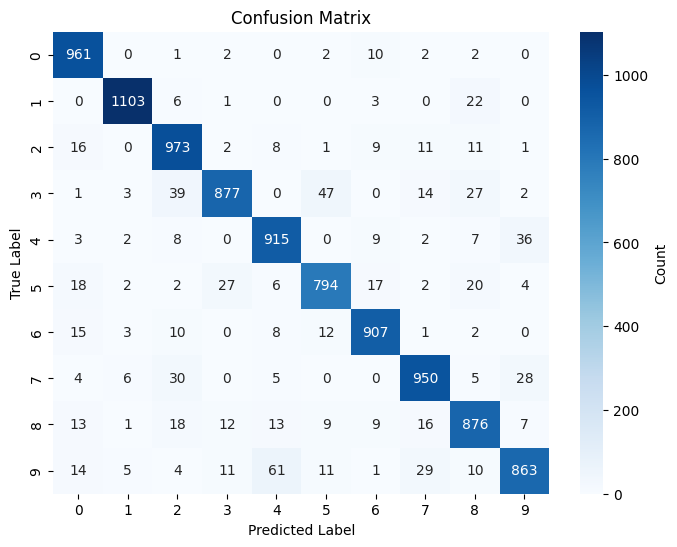
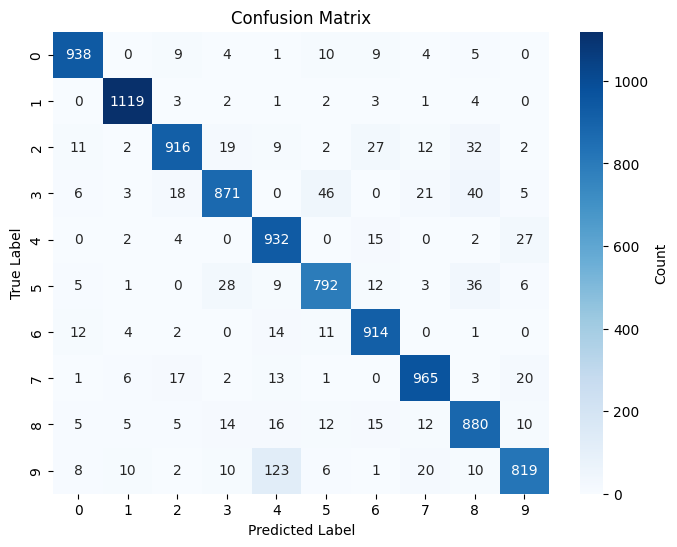
idk

diff --git a/_proc/_docs/mnist.html b/_proc/_docs/mnist.html
@@ -104,14 +104,14 @@ pre > code.sourceCode > span > a:first-child::before { text-decoration: underlin
 
 <link rel="stylesheet" href="styles.css">
 <meta property="og:title" content="Machine-learning-demo">
-<meta property="og:image" content="https://lakebradford.github.io/Machine-learning-demo/mnist_files/figure-html/cell-9-output-2.png">
+<meta property="og:image" content="https://lakebradford.github.io/Machine-learning-demo/mnist_files/figure-html/cell-4-output-2.png">
 <meta property="og:site_name" content="Machine-learning-demo">
-<meta property="og:image:height" content="547">
-<meta property="og:image:width" content="677">
+<meta property="og:image:height" content="413">
+<meta property="og:image:width" content="416">
 <meta name="twitter:title" content="Machine-learning-demo">
-<meta name="twitter:image" content="https://lakebradford.github.io/Machine-learning-demo/mnist_files/figure-html/cell-9-output-2.png">
-<meta name="twitter:image-height" content="547">
-<meta name="twitter:image-width" content="677">
+<meta name="twitter:image" content="https://lakebradford.github.io/Machine-learning-demo/mnist_files/figure-html/cell-4-output-2.png">
+<meta name="twitter:image-height" content="413">
+<meta name="twitter:image-width" content="416">
 <meta name="twitter:card" content="summary_large_image">
 </head>
 
@@ -197,7 +197,7 @@ pre > code.sourceCode > span > a:first-child::before { text-decoration: underlin
 11490434/11490434 ━━━━━━━━━━━━━━━━━━━━ 1s 0us/step</code></pre>
 </div>
 </div>
-<div id="cell-3" class="cell" data-execution_count="3">
+<div id="cell-3" class="cell" data-execution_count="8">
 <div class="sourceCode cell-code" id="cb4"><pre class="sourceCode python code-with-copy"><code class="sourceCode python"><span id="cb4-1"><a href="#cb4-1" aria-hidden="true" tabindex="-1"></a><span class="kw">def</span> plotImage(index,x_train,x_test,y_train):</span>
 <span id="cb4-2"><a href="#cb4-2" aria-hidden="true" tabindex="-1"></a>    <span class="co"># Normalize the values so they are a decimal between 0 and 1</span></span>
 <span id="cb4-3"><a href="#cb4-3" aria-hidden="true" tabindex="-1"></a>    x_train <span class="op">=</span> x_train<span class="op">/</span><span class="dv">255</span></span>
@@ -207,79 +207,91 @@ pre > code.sourceCode > span > a:first-child::before { text-decoration: underlin
 <span id="cb4-7"><a href="#cb4-7" aria-hidden="true" tabindex="-1"></a>    plt.show()</span>
 <span id="cb4-8"><a href="#cb4-8" aria-hidden="true" tabindex="-1"></a></span>
 <span id="cb4-9"><a href="#cb4-9" aria-hidden="true" tabindex="-1"></a></span>
-<span id="cb4-10"><a href="#cb4-10" aria-hidden="true" tabindex="-1"></a><span class="co">#TODO: change the index to see other values in the dataset</span></span></code><button title="Copy to Clipboard" class="code-copy-button"><i class="bi"></i></button></pre></div>
+<span id="cb4-10"><a href="#cb4-10" aria-hidden="true" tabindex="-1"></a><span class="co">#TODO: change the index to see other values in the dataset</span></span>
+<span id="cb4-11"><a href="#cb4-11" aria-hidden="true" tabindex="-1"></a>plotImage(<span class="dv">11</span>, x_train, x_test, y_train)</span></code><button title="Copy to Clipboard" class="code-copy-button"><i class="bi"></i></button></pre></div>
+<div class="cell-output cell-output-stdout">
+<pre><code>The plot represents the number 5</code></pre>
 </div>
-<div id="cell-4" class="cell">
-<div class="sourceCode cell-code" id="cb5"><pre class="sourceCode python code-with-copy"><code class="sourceCode python"><span id="cb5-1"><a href="#cb5-1" aria-hidden="true" tabindex="-1"></a><span class="co"># </span><span class="al">TODO</span><span class="co">: Add reshape the data in this code block</span></span>
-<span id="cb5-2"><a href="#cb5-2" aria-hidden="true" tabindex="-1"></a>x_train_flat <span class="op">=</span> x_train.reshape(NumberOfRows, NumberOfColumns)</span>
-<span id="cb5-3"><a href="#cb5-3" aria-hidden="true" tabindex="-1"></a><span class="co"># x_train_flat = </span></span>
-<span id="cb5-4"><a href="#cb5-4" aria-hidden="true" tabindex="-1"></a><span class="co"># x_test_flat =</span></span></code><button title="Copy to Clipboard" class="code-copy-button"><i class="bi"></i></button></pre></div>
+<div class="cell-output cell-output-display">
+<div>
+<figure class="figure">
+<p><img src="mnist_files/figure-html/cell-4-output-2.png" class="img-fluid figure-img"></p>
+</figure>
 </div>
-<div id="cell-5" class="cell">
-<div class="sourceCode cell-code" id="cb6"><pre class="sourceCode python code-with-copy"><code class="sourceCode python"><span id="cb6-1"><a href="#cb6-1" aria-hidden="true" tabindex="-1"></a><span class="co"># Model creation</span></span>
-<span id="cb6-2"><a href="#cb6-2" aria-hidden="true" tabindex="-1"></a>model <span class="op">=</span> keras.Sequential([</span>
-<span id="cb6-3"><a href="#cb6-3" aria-hidden="true" tabindex="-1"></a>    keras.layers.Dense(<span class="dv">128</span>, input_shape <span class="op">=</span> (<span class="dv">784</span>,),activation<span class="op">=</span><span class="st">'relu'</span>), </span>
-<span id="cb6-4"><a href="#cb6-4" aria-hidden="true" tabindex="-1"></a>    keras.layers.Dense(<span class="dv">64</span>, activation<span class="op">=</span><span class="st">'sigmoid'</span>), </span>
-<span id="cb6-5"><a href="#cb6-5" aria-hidden="true" tabindex="-1"></a>    keras.layers.Dense(<span class="dv">32</span>, activation<span class="op">=</span><span class="st">'sigmoid'</span>), </span>
-<span id="cb6-6"><a href="#cb6-6" aria-hidden="true" tabindex="-1"></a>    keras.layers.Dense(<span class="dv">10</span>, activation<span class="op">=</span><span class="st">'sigmoid'</span>)</span>
-<span id="cb6-7"><a href="#cb6-7" aria-hidden="true" tabindex="-1"></a>])</span>
-<span id="cb6-8"><a href="#cb6-8" aria-hidden="true" tabindex="-1"></a>model.<span class="bu">compile</span> (</span>
-<span id="cb6-9"><a href="#cb6-9" aria-hidden="true" tabindex="-1"></a>    optimizer<span class="op">=</span><span class="st">'adam'</span>,</span>
-<span id="cb6-10"><a href="#cb6-10" aria-hidden="true" tabindex="-1"></a>    loss <span class="op">=</span> <span class="st">'sparse_categorical_crossentropy'</span>,</span>
-<span id="cb6-11"><a href="#cb6-11" aria-hidden="true" tabindex="-1"></a>    metrics <span class="op">=</span> [<span class="st">'accuracy'</span>]</span>
-<span id="cb6-12"><a href="#cb6-12" aria-hidden="true" tabindex="-1"></a>)</span></code><button title="Copy to Clipboard" class="code-copy-button"><i class="bi"></i></button></pre></div>
+</div>
+</div>
+<div id="cell-4" class="cell" data-execution_count="9">
+<div class="sourceCode cell-code" id="cb6"><pre class="sourceCode python code-with-copy"><code class="sourceCode python"><span id="cb6-1"><a href="#cb6-1" aria-hidden="true" tabindex="-1"></a><span class="co"># </span><span class="al">TODO</span><span class="co">: Add reshape the data in this code block</span></span>
+<span id="cb6-2"><a href="#cb6-2" aria-hidden="true" tabindex="-1"></a>x_train_flat <span class="op">=</span> x_train.reshape(<span class="bu">len</span>(x_train), <span class="dv">784</span>)</span>
+<span id="cb6-3"><a href="#cb6-3" aria-hidden="true" tabindex="-1"></a>x_test_flat <span class="op">=</span> x_test.reshape(<span class="bu">len</span>(x_test), <span class="dv">784</span>)</span></code><button title="Copy to Clipboard" class="code-copy-button"><i class="bi"></i></button></pre></div>
+</div>
+<div id="cell-5" class="cell" data-execution_count="10">
+<div class="sourceCode cell-code" id="cb7"><pre class="sourceCode python code-with-copy"><code class="sourceCode python"><span id="cb7-1"><a href="#cb7-1" aria-hidden="true" tabindex="-1"></a><span class="co"># Model creation</span></span>
+<span id="cb7-2"><a href="#cb7-2" aria-hidden="true" tabindex="-1"></a>model <span class="op">=</span> keras.Sequential([</span>
+<span id="cb7-3"><a href="#cb7-3" aria-hidden="true" tabindex="-1"></a>    keras.layers.Dense(<span class="dv">128</span>, input_shape <span class="op">=</span> (<span class="dv">784</span>,),activation<span class="op">=</span><span class="st">'relu'</span>), </span>
+<span id="cb7-4"><a href="#cb7-4" aria-hidden="true" tabindex="-1"></a>    keras.layers.Dense(<span class="dv">64</span>, activation<span class="op">=</span><span class="st">'sigmoid'</span>), </span>
+<span id="cb7-5"><a href="#cb7-5" aria-hidden="true" tabindex="-1"></a>    keras.layers.Dense(<span class="dv">32</span>, activation<span class="op">=</span><span class="st">'sigmoid'</span>), </span>
+<span id="cb7-6"><a href="#cb7-6" aria-hidden="true" tabindex="-1"></a>    keras.layers.Dense(<span class="dv">10</span>, activation<span class="op">=</span><span class="st">'sigmoid'</span>)</span>
+<span id="cb7-7"><a href="#cb7-7" aria-hidden="true" tabindex="-1"></a>])</span>
+<span id="cb7-8"><a href="#cb7-8" aria-hidden="true" tabindex="-1"></a>model.<span class="bu">compile</span> (</span>
+<span id="cb7-9"><a href="#cb7-9" aria-hidden="true" tabindex="-1"></a>    optimizer<span class="op">=</span><span class="st">'adam'</span>,</span>
+<span id="cb7-10"><a href="#cb7-10" aria-hidden="true" tabindex="-1"></a>    loss <span class="op">=</span> <span class="st">'sparse_categorical_crossentropy'</span>,</span>
+<span id="cb7-11"><a href="#cb7-11" aria-hidden="true" tabindex="-1"></a>    metrics <span class="op">=</span> [<span class="st">'accuracy'</span>]</span>
+<span id="cb7-12"><a href="#cb7-12" aria-hidden="true" tabindex="-1"></a>)</span></code><button title="Copy to Clipboard" class="code-copy-button"><i class="bi"></i></button></pre></div>
 <div class="cell-output cell-output-stderr">
-<pre><code>/Users/lakebradford/Desktop/Machine-learning-demo/.venv/lib/python3.12/site-packages/keras/src/layers/core/dense.py:87: UserWarning: Do not pass an `input_shape`/`input_dim` argument to a layer. When using Sequential models, prefer using an `Input(shape)` object as the first layer in the model instead.
+<pre><code>c:\Users\rzhe2\WM\CSCI_435\Machine-learning-demo\myenv\lib\site-packages\keras\src\layers\core\dense.py:87: UserWarning: Do not pass an `input_shape`/`input_dim` argument to a layer. When using Sequential models, prefer using an `Input(shape)` object as the first layer in the model instead.
   super().__init__(activity_regularizer=activity_regularizer, **kwargs)</code></pre>
 </div>
 </div>
-<div id="cell-6" class="cell">
-<div class="sourceCode cell-code" id="cb8"><pre class="sourceCode python code-with-copy"><code class="sourceCode python"><span id="cb8-1"><a href="#cb8-1" aria-hidden="true" tabindex="-1"></a><span class="co"># </span><span class="al">TODO</span><span class="co">: Train the model using model.fit here</span></span></code><button title="Copy to Clipboard" class="code-copy-button"><i class="bi"></i></button></pre></div>
+<div id="cell-6" class="cell" data-execution_count="11">
+<div class="sourceCode cell-code" id="cb9"><pre class="sourceCode python code-with-copy"><code class="sourceCode python"><span id="cb9-1"><a href="#cb9-1" aria-hidden="true" tabindex="-1"></a><span class="co"># </span><span class="al">TODO</span><span class="co">: Train the model using model.fit here </span></span>
+<span id="cb9-2"><a href="#cb9-2" aria-hidden="true" tabindex="-1"></a>model.fit(x_train_flat, y_train, epochs<span class="op">=</span><span class="dv">5</span>)</span></code><button title="Copy to Clipboard" class="code-copy-button"><i class="bi"></i></button></pre></div>
 <div class="cell-output cell-output-stdout">
 <pre><code>Epoch 1/5
-1875/1875 ━━━━━━━━━━━━━━━━━━━━ 2s 1ms/step - accuracy: 0.7168 - loss: 1.1381
+1875/1875 ━━━━━━━━━━━━━━━━━━━━ 6s 2ms/step - accuracy: 0.6756 - loss: 1.1928
 Epoch 2/5
-1875/1875 ━━━━━━━━━━━━━━━━━━━━ 2s 937us/step - accuracy: 0.9095 - loss: 0.3223
+1875/1875 ━━━━━━━━━━━━━━━━━━━━ 4s 2ms/step - accuracy: 0.8936 - loss: 0.3626
 Epoch 3/5
-1875/1875 ━━━━━━━━━━━━━━━━━━━━ 2s 978us/step - accuracy: 0.9140 - loss: 0.2888
+1875/1875 ━━━━━━━━━━━━━━━━━━━━ 4s 2ms/step - accuracy: 0.9099 - loss: 0.3075
 Epoch 4/5
-1875/1875 ━━━━━━━━━━━━━━━━━━━━ 2s 970us/step - accuracy: 0.9202 - loss: 0.2684
+1875/1875 ━━━━━━━━━━━━━━━━━━━━ 4s 2ms/step - accuracy: 0.9137 - loss: 0.2859
 Epoch 5/5
-1875/1875 ━━━━━━━━━━━━━━━━━━━━ 2s 1ms/step - accuracy: 0.9198 - loss: 0.2697</code></pre>
+1875/1875 ━━━━━━━━━━━━━━━━━━━━ 6s 3ms/step - accuracy: 0.9152 - loss: 0.2878</code></pre>
 </div>
-<div class="cell-output cell-output-display">
-<pre><code>&lt;keras.src.callbacks.history.History&gt;</code></pre>
+<div class="cell-output cell-output-display" data-execution_count="11">
+<pre><code>&lt;keras.src.callbacks.history.History at 0x1c67e305c90&gt;</code></pre>
 </div>
 </div>
-<div id="cell-7" class="cell">
-<div class="sourceCode cell-code" id="cb11"><pre class="sourceCode python code-with-copy"><code class="sourceCode python"><span id="cb11-1"><a href="#cb11-1" aria-hidden="true" tabindex="-1"></a><span class="co"># </span><span class="al">TODO</span><span class="co">: Test the model against the test data using model.evaluate</span></span></code><button title="Copy to Clipboard" class="code-copy-button"><i class="bi"></i></button></pre></div>
+<div id="cell-7" class="cell" data-execution_count="16">
+<div class="sourceCode cell-code" id="cb12"><pre class="sourceCode python code-with-copy"><code class="sourceCode python"><span id="cb12-1"><a href="#cb12-1" aria-hidden="true" tabindex="-1"></a><span class="co"># </span><span class="al">TODO</span><span class="co">: Test the model against the test data using model.evaluate</span></span>
+<span id="cb12-2"><a href="#cb12-2" aria-hidden="true" tabindex="-1"></a>model.evaluate(x_test_flat, y_test)</span></code><button title="Copy to Clipboard" class="code-copy-button"><i class="bi"></i></button></pre></div>
 <div class="cell-output cell-output-stdout">
-<pre><code>313/313 ━━━━━━━━━━━━━━━━━━━━ 0s 416us/step - accuracy: 0.9094 - loss: 0.3053</code></pre>
+<pre><code>313/313 ━━━━━━━━━━━━━━━━━━━━ 0s 893us/step - accuracy: 0.9021 - loss: 0.3215</code></pre>
 </div>
-<div class="cell-output cell-output-display">
-<pre><code>[0.26149341464042664, 0.9218999743461609]</code></pre>
+<div class="cell-output cell-output-display" data-execution_count="16">
+<pre><code>[0.28421449661254883, 0.9146000146865845]</code></pre>
 </div>
 </div>
-<div id="cell-8" class="cell">
-<div class="sourceCode cell-code" id="cb14"><pre class="sourceCode python code-with-copy"><code class="sourceCode python"><span id="cb14-1"><a href="#cb14-1" aria-hidden="true" tabindex="-1"></a><span class="co"># </span><span class="al">TODO</span><span class="co">: Run the confusion matrix</span></span>
-<span id="cb14-2"><a href="#cb14-2" aria-hidden="true" tabindex="-1"></a><span class="kw">def</span> plot_confusion_matrix(model, x_test_flat, y_test):</span>
-<span id="cb14-3"><a href="#cb14-3" aria-hidden="true" tabindex="-1"></a>    <span class="co"># Make predictions</span></span>
-<span id="cb14-4"><a href="#cb14-4" aria-hidden="true" tabindex="-1"></a>    y_pred <span class="op">=</span> model.predict(x_test_flat)</span>
-<span id="cb14-5"><a href="#cb14-5" aria-hidden="true" tabindex="-1"></a>    y_pred_labels <span class="op">=</span> [np.argmax(i) <span class="cf">for</span> i <span class="kw">in</span> y_pred]</span>
-<span id="cb14-6"><a href="#cb14-6" aria-hidden="true" tabindex="-1"></a>    <span class="co"># Create confusion matrix</span></span>
-<span id="cb14-7"><a href="#cb14-7" aria-hidden="true" tabindex="-1"></a>    confusion_matrix <span class="op">=</span> tf.math.confusion_matrix(labels<span class="op">=</span>y_test, predictions<span class="op">=</span>y_pred_labels)</span>
-<span id="cb14-8"><a href="#cb14-8" aria-hidden="true" tabindex="-1"></a>    <span class="co"># Plot the confusion matrix</span></span>
-<span id="cb14-9"><a href="#cb14-9" aria-hidden="true" tabindex="-1"></a>    plt.figure(figsize<span class="op">=</span>(<span class="dv">8</span>, <span class="dv">6</span>))</span>
-<span id="cb14-10"><a href="#cb14-10" aria-hidden="true" tabindex="-1"></a>    sn.heatmap(confusion_matrix, annot<span class="op">=</span><span class="va">True</span>, fmt<span class="op">=</span><span class="st">'d'</span>, cmap<span class="op">=</span><span class="st">'Blues'</span>, cbar_kws<span class="op">=</span>{<span class="st">'label'</span>: <span class="st">'Count'</span>})</span>
-<span id="cb14-11"><a href="#cb14-11" aria-hidden="true" tabindex="-1"></a>    plt.title(<span class="st">'Confusion Matrix'</span>)</span>
-<span id="cb14-12"><a href="#cb14-12" aria-hidden="true" tabindex="-1"></a>    plt.xlabel(<span class="st">'Predicted Label'</span>)</span>
-<span id="cb14-13"><a href="#cb14-13" aria-hidden="true" tabindex="-1"></a>    plt.ylabel(<span class="st">'True Label'</span>)</span>
-<span id="cb14-14"><a href="#cb14-14" aria-hidden="true" tabindex="-1"></a>    plt.show()</span>
-<span id="cb14-15"><a href="#cb14-15" aria-hidden="true" tabindex="-1"></a></span>
-<span id="cb14-16"><a href="#cb14-16" aria-hidden="true" tabindex="-1"></a><span class="co"># </span><span class="al">TODO</span><span class="co">: Uncomment out the line below and run the code block</span></span>
-<span id="cb14-17"><a href="#cb14-17" aria-hidden="true" tabindex="-1"></a><span class="co"># plot_confusion_matrix(model,x_test_flat,y_test)</span></span></code><button title="Copy to Clipboard" class="code-copy-button"><i class="bi"></i></button></pre></div>
+<div id="cell-8" class="cell" data-execution_count="17">
+<div class="sourceCode cell-code" id="cb15"><pre class="sourceCode python code-with-copy"><code class="sourceCode python"><span id="cb15-1"><a href="#cb15-1" aria-hidden="true" tabindex="-1"></a><span class="co"># </span><span class="al">TODO</span><span class="co">: Run the confusion matrix</span></span>
+<span id="cb15-2"><a href="#cb15-2" aria-hidden="true" tabindex="-1"></a><span class="kw">def</span> plot_confusion_matrix(model, x_test_flat, y_test):</span>
+<span id="cb15-3"><a href="#cb15-3" aria-hidden="true" tabindex="-1"></a>    <span class="co"># Make predictions</span></span>
+<span id="cb15-4"><a href="#cb15-4" aria-hidden="true" tabindex="-1"></a>    y_pred <span class="op">=</span> model.predict(x_test_flat)</span>
+<span id="cb15-5"><a href="#cb15-5" aria-hidden="true" tabindex="-1"></a>    y_pred_labels <span class="op">=</span> [np.argmax(i) <span class="cf">for</span> i <span class="kw">in</span> y_pred]</span>
+<span id="cb15-6"><a href="#cb15-6" aria-hidden="true" tabindex="-1"></a>    <span class="co"># Create confusion matrix</span></span>
+<span id="cb15-7"><a href="#cb15-7" aria-hidden="true" tabindex="-1"></a>    confusion_matrix <span class="op">=</span> tf.math.confusion_matrix(labels<span class="op">=</span>y_test, predictions<span class="op">=</span>y_pred_labels)</span>
+<span id="cb15-8"><a href="#cb15-8" aria-hidden="true" tabindex="-1"></a>    <span class="co"># Plot the confusion matrix</span></span>
+<span id="cb15-9"><a href="#cb15-9" aria-hidden="true" tabindex="-1"></a>    plt.figure(figsize<span class="op">=</span>(<span class="dv">8</span>, <span class="dv">6</span>))</span>
+<span id="cb15-10"><a href="#cb15-10" aria-hidden="true" tabindex="-1"></a>    sn.heatmap(confusion_matrix, annot<span class="op">=</span><span class="va">True</span>, fmt<span class="op">=</span><span class="st">'d'</span>, cmap<span class="op">=</span><span class="st">'Blues'</span>, cbar_kws<span class="op">=</span>{<span class="st">'label'</span>: <span class="st">'Count'</span>})</span>
+<span id="cb15-11"><a href="#cb15-11" aria-hidden="true" tabindex="-1"></a>    plt.title(<span class="st">'Confusion Matrix'</span>)</span>
+<span id="cb15-12"><a href="#cb15-12" aria-hidden="true" tabindex="-1"></a>    plt.xlabel(<span class="st">'Predicted Label'</span>)</span>
+<span id="cb15-13"><a href="#cb15-13" aria-hidden="true" tabindex="-1"></a>    plt.ylabel(<span class="st">'True Label'</span>)</span>
+<span id="cb15-14"><a href="#cb15-14" aria-hidden="true" tabindex="-1"></a>    plt.show()</span>
+<span id="cb15-15"><a href="#cb15-15" aria-hidden="true" tabindex="-1"></a></span>
+<span id="cb15-16"><a href="#cb15-16" aria-hidden="true" tabindex="-1"></a><span class="co"># </span><span class="al">TODO</span><span class="co">: Uncomment out the line below and run the code block</span></span>
+<span id="cb15-17"><a href="#cb15-17" aria-hidden="true" tabindex="-1"></a>plot_confusion_matrix(model,x_test_flat,y_test)</span></code><button title="Copy to Clipboard" class="code-copy-button"><i class="bi"></i></button></pre></div>
 <div class="cell-output cell-output-stdout">
-<pre><code>313/313 ━━━━━━━━━━━━━━━━━━━━ 0s 448us/step</code></pre>
+<pre><code>313/313 ━━━━━━━━━━━━━━━━━━━━ 0s 974us/step</code></pre>
 </div>
 <div class="cell-output cell-output-display">
 <div>

diff --git a/_proc/mnist.html.md b/_proc/mnist.html.md
@@ -27,7 +27,7 @@ Downloading data from https://storage.googleapis.com/tensorflow/tf-keras-dataset
 :::
 
 
-::: {#cell-3 .cell execution_count=3}
+::: {#cell-3 .cell execution_count=8}
 ``` {.python .cell-code}
 def plotImage(index,x_train,x_test,y_train):
     # Normalize the values so they are a decimal between 0 and 1
@@ -39,21 +39,31 @@ def plotImage(index,x_train,x_test,y_train):
 
 
 #TODO: change the index to see other values in the dataset
+plotImage(11, x_train, x_test, y_train)
+```
+
+::: {.cell-output .cell-output-stdout}
+```
+The plot represents the number 5
 ```
 :::
 
+::: {.cell-output .cell-output-display}
+![](mnist_files/figure-html/cell-4-output-2.png){}
+:::
+:::
 
-::: {#cell-4 .cell}
+
+::: {#cell-4 .cell execution_count=9}
 ``` {.python .cell-code}
 # TODO: Add reshape the data in this code block
-x_train_flat = x_train.reshape(NumberOfRows, NumberOfColumns)
-# x_train_flat = 
-# x_test_flat =
+x_train_flat = x_train.reshape(len(x_train), 784)
+x_test_flat = x_test.reshape(len(x_test), 784)
 ```
 :::
 
 
-::: {#cell-5 .cell}
+::: {#cell-5 .cell execution_count=10}
 ``` {.python .cell-code}
 # Model creation
 model = keras.Sequential([
@@ -71,61 +81,63 @@ model.compile (
 
 ::: {.cell-output .cell-output-stderr}
 ```
-/Users/lakebradford/Desktop/Machine-learning-demo/.venv/lib/python3.12/site-packages/keras/src/layers/core/dense.py:87: UserWarning: Do not pass an `input_shape`/`input_dim` argument to a layer. When using Sequential models, prefer using an `Input(shape)` object as the first layer in the model instead.
+c:\Users\rzhe2\WM\CSCI_435\Machine-learning-demo\myenv\lib\site-packages\keras\src\layers\core\dense.py:87: UserWarning: Do not pass an `input_shape`/`input_dim` argument to a layer. When using Sequential models, prefer using an `Input(shape)` object as the first layer in the model instead.
   super().__init__(activity_regularizer=activity_regularizer, **kwargs)
 ```
 :::
 :::
 
 
-::: {#cell-6 .cell}
+::: {#cell-6 .cell execution_count=11}
 ``` {.python .cell-code}
-# TODO: Train the model using model.fit here
+# TODO: Train the model using model.fit here 
+model.fit(x_train_flat, y_train, epochs=5)
 ```
 
 ::: {.cell-output .cell-output-stdout}
 ```
 Epoch 1/5
-1875/1875 ━━━━━━━━━━━━━━━━━━━━ 2s 1ms/step - accuracy: 0.7168 - loss: 1.1381
+1875/1875 ━━━━━━━━━━━━━━━━━━━━ 6s 2ms/step - accuracy: 0.6756 - loss: 1.1928
 Epoch 2/5
-1875/1875 ━━━━━━━━━━━━━━━━━━━━ 2s 937us/step - accuracy: 0.9095 - loss: 0.3223
+1875/1875 ━━━━━━━━━━━━━━━━━━━━ 4s 2ms/step - accuracy: 0.8936 - loss: 0.3626
 Epoch 3/5
-1875/1875 ━━━━━━━━━━━━━━━━━━━━ 2s 978us/step - accuracy: 0.9140 - loss: 0.2888
+1875/1875 ━━━━━━━━━━━━━━━━━━━━ 4s 2ms/step - accuracy: 0.9099 - loss: 0.3075
 Epoch 4/5
-1875/1875 ━━━━━━━━━━━━━━━━━━━━ 2s 970us/step - accuracy: 0.9202 - loss: 0.2684
+1875/1875 ━━━━━━━━━━━━━━━━━━━━ 4s 2ms/step - accuracy: 0.9137 - loss: 0.2859
 Epoch 5/5
-1875/1875 ━━━━━━━━━━━━━━━━━━━━ 2s 1ms/step - accuracy: 0.9198 - loss: 0.2697
+1875/1875 ━━━━━━━━━━━━━━━━━━━━ 6s 3ms/step - accuracy: 0.9152 - loss: 0.2878
 ```
 :::
 
-::: {.cell-output .cell-output-display}
+::: {.cell-output .cell-output-display execution_count=11}
 ```
-<keras.src.callbacks.history.History>
+<keras.src.callbacks.history.History at 0x1c67e305c90>
 ```
 :::
 :::
 
 
-::: {#cell-7 .cell}
+::: {#cell-7 .cell execution_count=16}
 ``` {.python .cell-code}
 # TODO: Test the model against the test data using model.evaluate
+model.evaluate(x_test_flat, y_test)
 ```
 
 ::: {.cell-output .cell-output-stdout}
 ```
-313/313 ━━━━━━━━━━━━━━━━━━━━ 0s 416us/step - accuracy: 0.9094 - loss: 0.3053
+313/313 ━━━━━━━━━━━━━━━━━━━━ 0s 893us/step - accuracy: 0.9021 - loss: 0.3215
 ```
 :::
 
-::: {.cell-output .cell-output-display}
+::: {.cell-output .cell-output-display execution_count=16}
 ```
-[0.26149341464042664, 0.9218999743461609]
+[0.28421449661254883, 0.9146000146865845]
 ```
 :::
 :::
 
 
-::: {#cell-8 .cell}
+::: {#cell-8 .cell execution_count=17}
 ``` {.python .cell-code}
 # TODO: Run the confusion matrix
 def plot_confusion_matrix(model, x_test_flat, y_test):
@@ -143,12 +155,12 @@ def plot_confusion_matrix(model, x_test_flat, y_test):
     plt.show()
 
 # TODO: Uncomment out the line below and run the code block
-# plot_confusion_matrix(model,x_test_flat,y_test)
+plot_confusion_matrix(model,x_test_flat,y_test)
 ```
 
 ::: {.cell-output .cell-output-stdout}
 ```
-313/313 ━━━━━━━━━━━━━━━━━━━━ 0s 448us/step
+313/313 ━━━━━━━━━━━━━━━━━━━━ 0s 974us/step
 ```
 :::
 

diff --git a/_proc/_docs/mnist.md b/_proc/_docs/mnist.md
@@ -30,13 +30,17 @@ def plotImage(index,x_train,x_test,y_train):
 
 
 #TODO: change the index to see other values in the dataset
+plotImage(11, x_train, x_test, y_train)
 ```
+
+    The plot represents the number 5
+
+![](mnist_files/figure-commonmark/cell-4-output-2.png)
 
 ``` python
 # TODO: Add reshape the data in this code block
-x_train_flat = x_train.reshape(NumberOfRows, NumberOfColumns)
-# x_train_flat = 
-# x_test_flat =
+x_train_flat = x_train.reshape(len(x_train), 784)
+x_test_flat = x_test.reshape(len(x_test), 784)
 ```
 
 ``` python
@@ -54,33 +58,35 @@ model.compile (
 )
 ```
 
-    /Users/lakebradford/Desktop/Machine-learning-demo/.venv/lib/python3.12/site-packages/keras/src/layers/core/dense.py:87: UserWarning: Do not pass an `input_shape`/`input_dim` argument to a layer. When using Sequential models, prefer using an `Input(shape)` object as the first layer in the model instead.
+    c:\Users\rzhe2\WM\CSCI_435\Machine-learning-demo\myenv\lib\site-packages\keras\src\layers\core\dense.py:87: UserWarning: Do not pass an `input_shape`/`input_dim` argument to a layer. When using Sequential models, prefer using an `Input(shape)` object as the first layer in the model instead.
       super().__init__(activity_regularizer=activity_regularizer, **kwargs)
 
 ``` python
-# TODO: Train the model using model.fit here
+# TODO: Train the model using model.fit here 
+model.fit(x_train_flat, y_train, epochs=5)
 ```
 
     Epoch 1/5
-    1875/1875 ━━━━━━━━━━━━━━━━━━━━ 2s 1ms/step - accuracy: 0.7168 - loss: 1.1381
+    1875/1875 ━━━━━━━━━━━━━━━━━━━━ 6s 2ms/step - accuracy: 0.6756 - loss: 1.1928
     Epoch 2/5
-    1875/1875 ━━━━━━━━━━━━━━━━━━━━ 2s 937us/step - accuracy: 0.9095 - loss: 0.3223
+    1875/1875 ━━━━━━━━━━━━━━━━━━━━ 4s 2ms/step - accuracy: 0.8936 - loss: 0.3626
     Epoch 3/5
-    1875/1875 ━━━━━━━━━━━━━━━━━━━━ 2s 978us/step - accuracy: 0.9140 - loss: 0.2888
+    1875/1875 ━━━━━━━━━━━━━━━━━━━━ 4s 2ms/step - accuracy: 0.9099 - loss: 0.3075
     Epoch 4/5
-    1875/1875 ━━━━━━━━━━━━━━━━━━━━ 2s 970us/step - accuracy: 0.9202 - loss: 0.2684
+    1875/1875 ━━━━━━━━━━━━━━━━━━━━ 4s 2ms/step - accuracy: 0.9137 - loss: 0.2859
     Epoch 5/5
-    1875/1875 ━━━━━━━━━━━━━━━━━━━━ 2s 1ms/step - accuracy: 0.9198 - loss: 0.2697
+    1875/1875 ━━━━━━━━━━━━━━━━━━━━ 6s 3ms/step - accuracy: 0.9152 - loss: 0.2878
 
-    <keras.src.callbacks.history.History>
+    <keras.src.callbacks.history.History at 0x1c67e305c90>
 
 ``` python
 # TODO: Test the model against the test data using model.evaluate
+model.evaluate(x_test_flat, y_test)
 ```
 
-    313/313 ━━━━━━━━━━━━━━━━━━━━ 0s 416us/step - accuracy: 0.9094 - loss: 0.3053
+    313/313 ━━━━━━━━━━━━━━━━━━━━ 0s 893us/step - accuracy: 0.9021 - loss: 0.3215
 
-    [0.26149341464042664, 0.9218999743461609]
+    [0.28421449661254883, 0.9146000146865845]
 
 ``` python
 # TODO: Run the confusion matrix
@@ -99,9 +105,9 @@ def plot_confusion_matrix(model, x_test_flat, y_test):
     plt.show()
 
 # TODO: Uncomment out the line below and run the code block
-# plot_confusion_matrix(model,x_test_flat,y_test)
+plot_confusion_matrix(model,x_test_flat,y_test)
 ```
 
-    313/313 ━━━━━━━━━━━━━━━━━━━━ 0s 448us/step
+    313/313 ━━━━━━━━━━━━━━━━━━━━ 0s 974us/step
 
 ![](mnist_files/figure-commonmark/cell-9-output-2.png)
